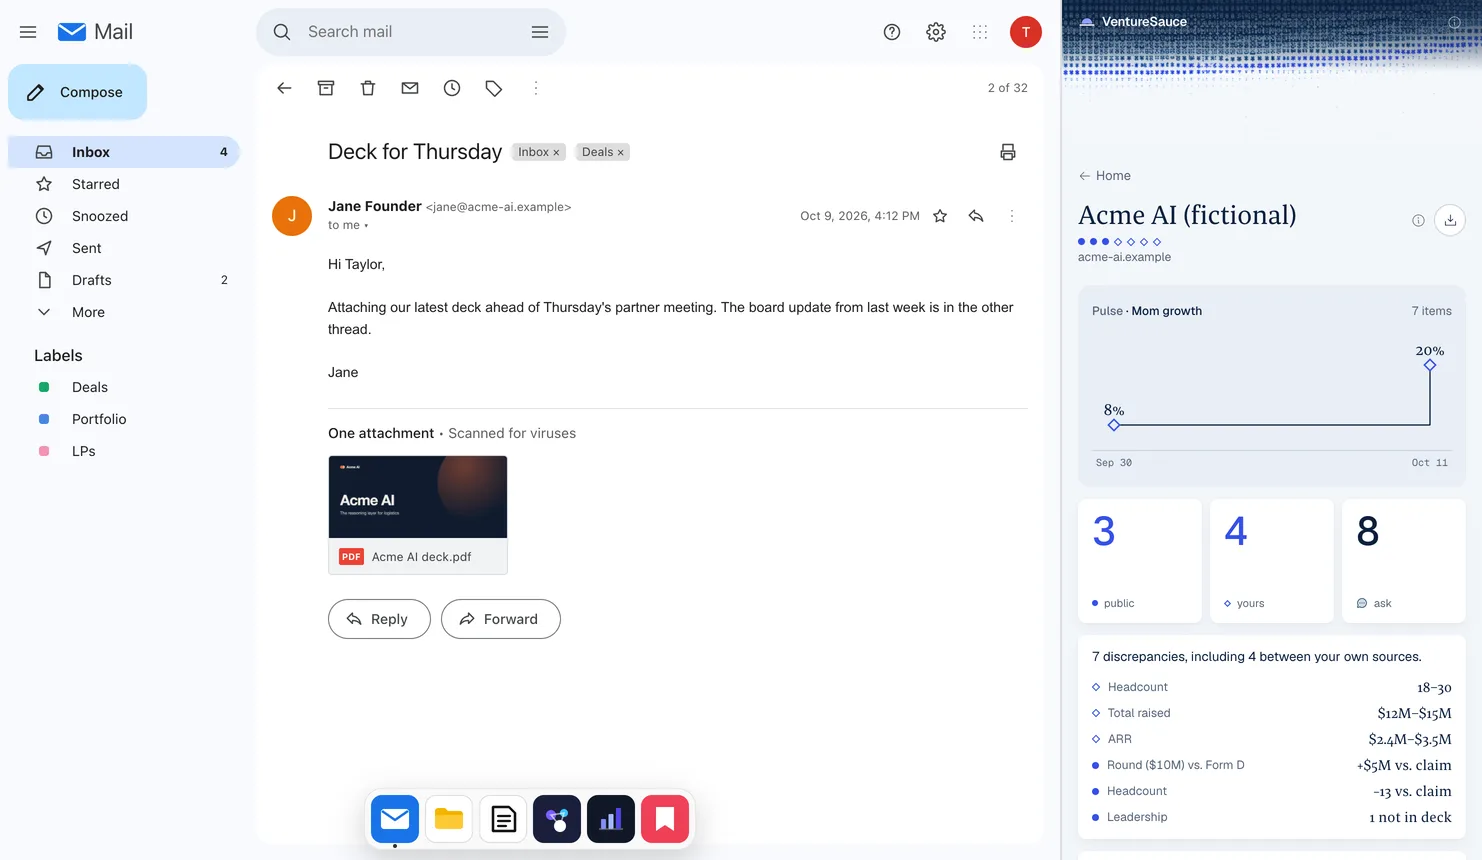
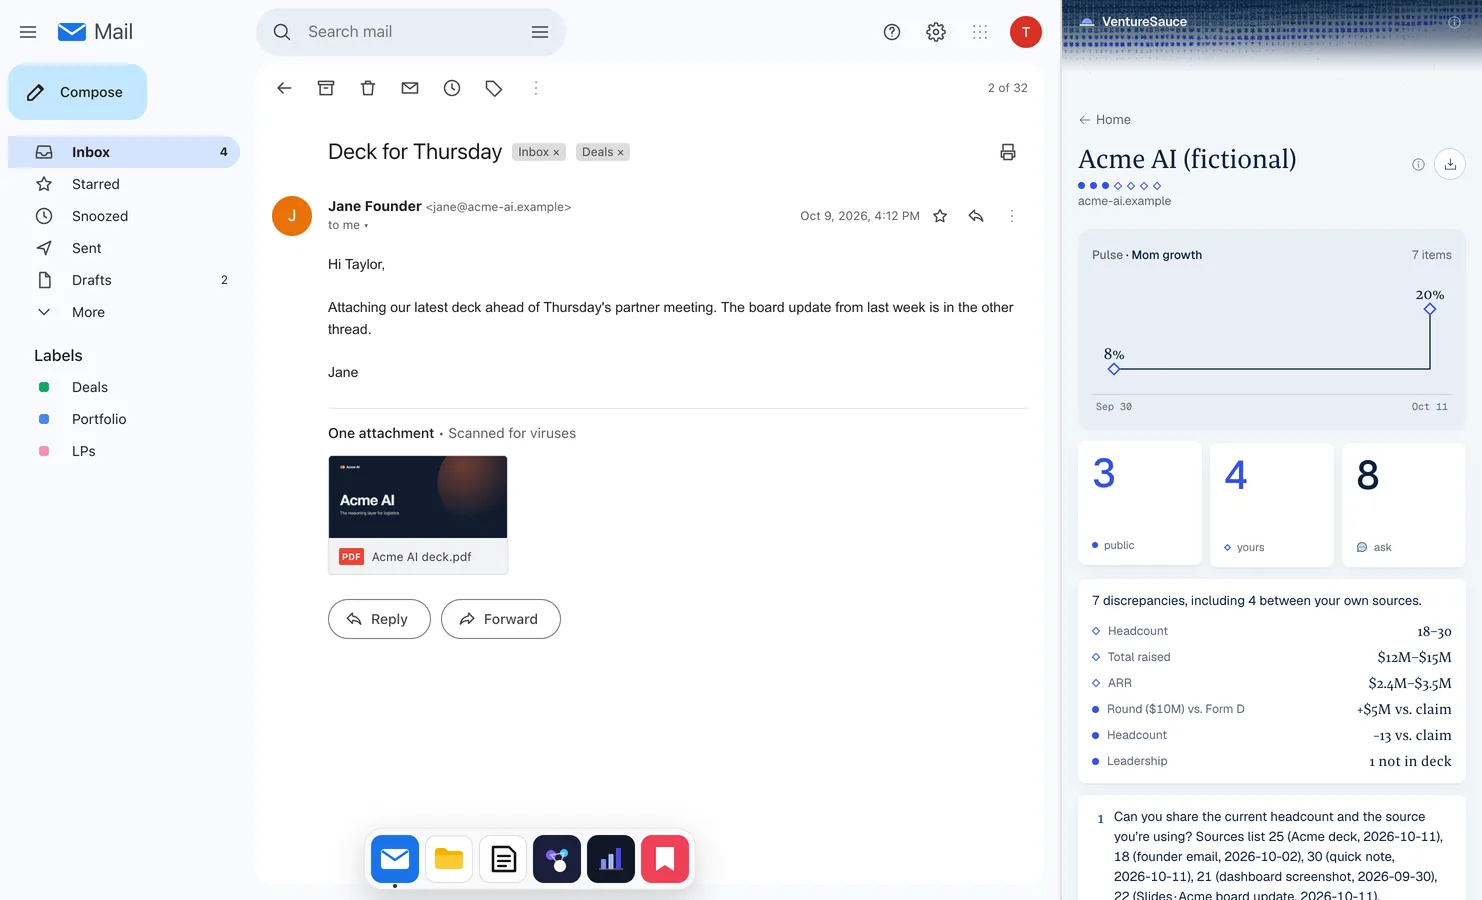
README: fresh screenshots of the merged UI and rebuilt demo inbox; diagram, table and credits include the OSO pipeline and Crunchbase

diff --git a/README.md b/README.md
@@ -25,7 +25,8 @@ flowchart LR
     B --> C["Claims<br/>raised · round · team<br/>board · ARR"]
     C --> D{"Check"}
     P["SEC Form D<br/>(EDGAR)"] --> D
-    L["LinkedIn + press<br/>(Bright Data)"] --> D
+    O["LinkedIn · Crunchbase<br/>(Bright Data datasets,<br/>our pipeline on OSO)"] --> D
+    L["Live LinkedIn + press<br/>(Bright Data)"] --> D
     Y["Your other items<br/>for this company"] --> D
     D --> R["Report<br/>match · differs · can't verify<br/>+ founder questions"]
     R --> G["Daily / weekly digest<br/>(audio by Fish Audio)"]
@@ -48,8 +49,8 @@ The model only **reads**. Every verdict comes from plain rules in code, so the s
 
 | Claim | Checked against |
 | --- | --- |
-| Money raised, round size | SEC Form D filings, funding press |
-| Team size | LinkedIn (only the page the company's own site links to) |
+| Money raised, round size | SEC Form D filings, funding press, Crunchbase |
+| Team size | LinkedIn (only a profile whose website is the company's own) |
 | Board, executives | People listed on the Form D |
 | ARR, growth, customers | Your other items: deck vs. email vs. notes |
 
@@ -71,7 +72,7 @@ cd frontend && npm install && npm run dev   # http://localhost:3000/panel
 - **Prefilled inbox:** `localhost:3000/panel?ws=demo`
 - **No keys?** `VENTURESAUCE_FAKE=1` replays a sample run.
 
-Acme AI and Northwind Robotics are fictional. Real companies (Daytona, Clerk, Legora) are checked only against their own public statements.
+Acme AI and Northwind Robotics are fictional. Real companies (Daytona, Clerk, Legora, Lovable, Harvey) appear only through their own public statements.
 
 ## Data pipeline
 
@@ -81,7 +82,7 @@ Details: [pipeline README](pipeline/README.md).
 
 ## Built with
 
-**Nebius** (open model) · **Bright Data** (LinkedIn and press) · **Fish Audio** (spoken digest) · **SEC EDGAR** · FastAPI · Next.js · Chrome MV3
+**Nebius** (open model) · **Bright Data** (LinkedIn, Crunchbase, press) · **OSO** (data pipeline) · **Fish Audio** (spoken digest) · **SEC EDGAR** · FastAPI · Next.js · Chrome MV3
 
 ## More
 
